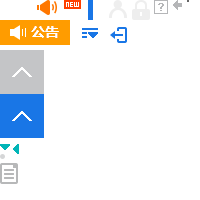
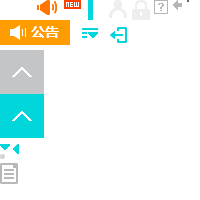
首页

diff --git a/src/main/resources/static/ospos/staticfiles/css/OpenSerNew.css b/src/main/resources/static/ospos/staticfiles/css/OpenSerNew.css
@@ -293,7 +293,7 @@ a:hover{color:#ff7700;text-decoration:none;}
 .se-APIDoc em{display: inline-block;width: 25px;height: 28px;background: url("images/leftbg.png")/*tpa=https://open.suning.com/ospos/staticfiles/css/images/leftbg.png*/ -47px 0px no-repeat;vertical-align: middle;margin-right: 15px;}
 
 .on-menuR .pr-title{height: 40px;line-height: 40px;background: #f7f8f9;font-weight:bold;font-size: 16px;border-left:3px solid #01b5b7;padding-left: 15px;margin-bottom: 20px;cursor: pointer;}
-.on-menuR .pr-title:hover{background:#eaf4fc;}
+.on-menuR .pr-title:hover{background: #effdff;}
 .on-menuR .pr-title em{display: inline-block;background: url("images/OpenSer.png")  no-repeat;float: right;margin: 17px 15px 0 0 ;cursor: pointer;}
 .on-menuR .pr-title .pr-down{width: 10px;height: 6px; background-position: 0 -144px ;}
 .on-menuR .pr-title .pr-up{width: 6px;height: 10px; background-position: -13px -144px;margin: 15px 15px 0 0;}
@@ -353,13 +353,13 @@ a:hover{color:#ff7700;text-decoration:none;}
 .on-menuR .pr-con1 .go-pic{height: 270px;border: 1px solid #f7f8f9;margin: 20px 0 40px 0;padding: 48px 0 0 32px;}
 .go-ulList li{height: 30px;line-height: 30px;}
 .go-ulList li:hover{background: #f7f8f9;}
-.go-liList{display: inline-block;width: 500px;color: #2272c8;}
+.go-liList{display: inline-block;width: 500px;color: #009da0;}
 
 /*suning.custom*/
 .on-menuL .su-list ul li{border-bottom: 1px solid #e2e3e4;border-top: none;text-align: right;position: relative;padding: 8px 15px;}
 .on-menuL .su-list .on-menuOn .su-listDiv a,.on-menuL .su-list .on-menuOn .su-listDiv p{color: #fff;}
 .su-listDiv{position: relative;text-align: right;overflow: hidden;height: 42px;}
-.on-menuL .su-list .su-listDiv a{position: absolute;top: 0;right: 0;color: #2272c8;}
+.on-menuL .su-list .su-listDiv a{position: absolute;top: 0;right: 0;color: #009da0;}
 .on-menuL .su-list .su-listDiv p{position: absolute;overflow: hidden;white-space: normal;top: 20px;right: 0;color: #333;}
 .su-mask{position: absolute;width: 230px;height: 100%;z-index: 10;top: 0;left: 0;background: url("images/mask.png")/*tpa=https://open.suning.com/ospos/staticfiles/css/images/mask.png*/;}
 .su-mask1{position: absolute;width: 230px;height: 100%;z-index: 10;top: 0;left: 0;background: url("images/mask1.png")/*tpa=https://open.suning.com/ospos/staticfiles/css/images/mask1.png*/;}
@@ -370,7 +370,7 @@ a:hover{color:#ff7700;text-decoration:none;}
 .su-titList .su-firA{padding-left: 0;border-left: none;}
 .su-table,.su-taQue{width: 100%;text-align: left;}
 .su-table tr th,.su-table tr td{padding-left: 10px;height: 33px;line-height: 33px;border-top: 1px solid #e2e3e4;border-left: 1px solid #e2e3e4;color: #666;}
-.su-table tr th{background: #e7f2ff;color: #333;}
+.su-table tr th{background: #01b5b7;color: #333;}
 .su-taQue tr td{padding-left: 10px;height: 33px;line-height: 33px;border-top: 1px solid #e2e3e4;border-left: 1px solid #e2e3e4;color: #333;}
 .addBR{border-right: 1px solid #e2e3e4;}
 .addBB{border-bottom: 1px solid #e2e3e4;}

diff --git a/src/main/resources/static/ospos/staticfiles/css/openUpdate.css b/src/main/resources/static/ospos/staticfiles/css/openUpdate.css
@@ -1,8 +1,8 @@
 .su-titList{overflow:inherit; width:109px; position: fixed;top:50%; margin-top:-200px; border:none; border-left: 2px solid #ebebeb;}
 .su-titList li{float:none; padding:0 14px; height: 40px;line-height: 40px; background:none; }
-.su-titList li.cur a{margin-left:-20px; color:#1976e6; background:url("images/icon_circle_cur.png")/*tpa=https://open.suning.com/ospos/staticfiles/css/images/icon_circle_cur.png*/ no-repeat 0 center;}
+.su-titList li.cur a{margin-left:-20px; color: #009da0; background:url("images/icon_circle_cur.png")/*tpa=https://open.suning.com/ospos/staticfiles/css/images/icon_circle_cur.png*/ no-repeat 0 center;}
 .su-titList li a{display:block; margin-left:-18px; height: 40px; line-height: 40px; padding: 0; border:none; background:url("images/icon_circle.png")/*tpa=https://open.suning.com/ospos/staticfiles/css/images/icon_circle.png*/ no-repeat 0 center; padding:0 15px; color: #333333;font-size: 12px; text-align: left; }
-.su-titList li a:hover{color: #1976e6;}
+.su-titList li a:hover{color: #009da0;}
 .su-titList .su-firA{border-left: none;}
 .tnote{margin-bottom:35px; margin-top:16px; font-size:12px; color: #333333;}
 .su-table, .su-taQue{border-top:1px solid #e2e3e4;}
@@ -12,9 +12,9 @@
 
 
 .tab{margin-bottom:40px; position:relative;}
-.tab .copy{display:block; position:absolute; right:0; top:0; color:#2272c8;}
+.tab .copy{display:block; position:absolute; right:0; top:0; color: #009da0;}
 .tab-handler{margin-bottom:10px; height:25px; line-height:25px; border-bottom:1px solid #e2e3e4;border-left: 1px solid #e2e3e4;}
-.tab-handler li{float:left; height:24px; padding:0 20px; font-size:14px; color:#666666; background-color:#e7f2ff; cursor:pointer; border: 1px solid #e2e3e4; border-left:none; border-bottom:none;}
+.tab-handler li{float:left; height:24px; padding:0 20px; font-size:14px; color:#666666; background-color: #effdff; cursor:pointer; border: 1px solid #e2e3e4; border-left:none; border-bottom:none;}
 .tab-handler li.cur{float:left; padding:0 20px; font-size:14px; color:#666666; background-color:#ffffff; border-bottom:1px solid #ffffff; position:relative; z-index:1;}
 .tab-panel{display:none;}
 
